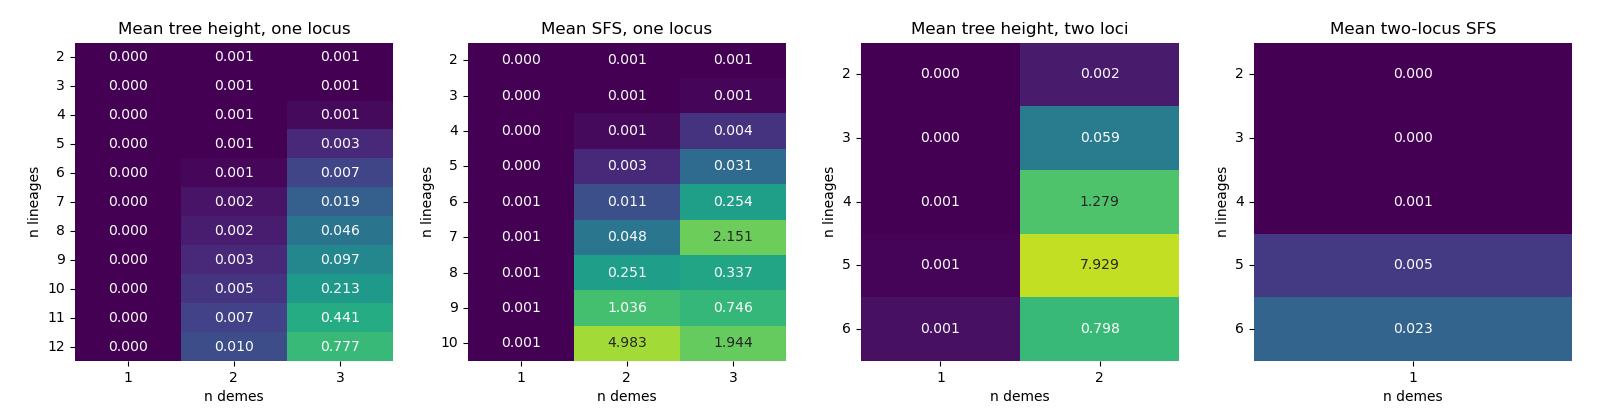
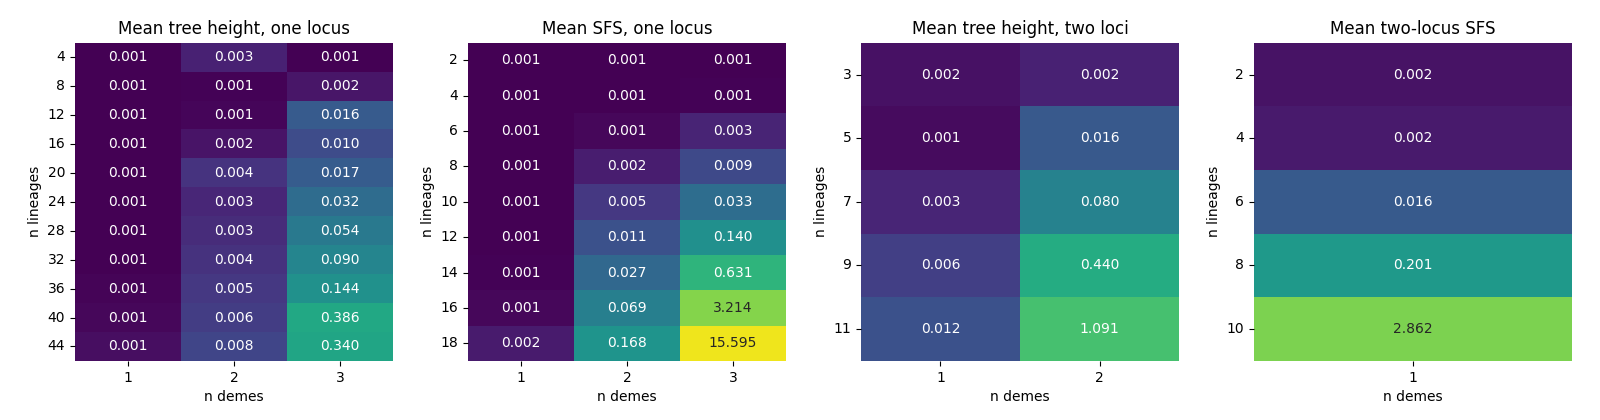
Rerun the runtime benchmarks with migration and more lineages

diff --git a/scripts/plot_heatmap_sampling_times.py b/scripts/plot_heatmap_sampling_times.py
@@ -64,8 +64,15 @@ def plot_heatmap(
     for (n, d) in itertools.product(N, D):
         pbar.set_description(f"n={n}, d={d}")
 
+        pops = {'pop_0': n} | {f'pop_{i}': 0 for i in range(1, d)}
+
+        # unit migration between all demes, so that every state of the state space is reachable
         coal = pg.Coalescent(
-            n=pg.LineageConfig({'pop_0': n} | {f'pop_{i}': 0 for i in range(1, d)}),
+            n=pg.LineageConfig(pops),
+            demography=pg.Demography(
+                pop_sizes={p: 1 for p in pops},
+                migration_rates={(a, b): 1.0 for a in pops for b in pops if a != b}
+            ),
             loci=locus_config
         )
 
@@ -102,7 +109,7 @@ _ = pg.Coalescent(n={'pop_0': 3, 'pop_1': 0, 'pop_2': 0}).tree_height.to_empiric
 
 plot_heatmap(
     ax=ax[0],
-    N=np.arange(2, 13, 1),
+    N=np.arange(4, 48, 4),
     D=np.arange(1, 4),
     callback=lambda coal: coal.tree_height.to_empirical(N_SAMPLES).mean,
     title="Mean tree height, one locus"
@@ -110,7 +117,7 @@ plot_heatmap(
 
 plot_heatmap(
     ax=ax[1],
-    N=np.arange(2, 11, 1),
+    N=np.arange(2, 20, 2),
     D=np.arange(1, 4),
     callback=lambda coal: coal.sfs.to_empirical(N_SAMPLES).mean,
     title="Mean SFS, one locus"
@@ -118,7 +125,7 @@ plot_heatmap(
 
 plot_heatmap(
     ax=ax[2],
-    N=np.arange(2, 7, 1),
+    N=np.arange(3, 13, 2),
     D=np.arange(1, 3),
     callback=lambda coal: coal.tree_height.to_empirical(N_SAMPLES).mean,
     title="Mean tree height, two loci",
@@ -128,7 +135,7 @@ plot_heatmap(
 # mean two-locus SFS (the recombination-aware 2-SFS); single population
 plot_heatmap(
     ax=ax[3],
-    N=np.arange(2, 7, 1),
+    N=np.arange(2, 12, 2),
     D=np.arange(1, 2),
     callback=lambda coal: coal.sfs2.to_empirical(N_SAMPLES).mean,
     title="Mean two-locus SFS",

diff --git a/scripts/plot_heatmap_execution_times.py b/scripts/plot_heatmap_execution_times.py
@@ -71,8 +71,15 @@ def plot_heatmap(
     for (n, d) in itertools.product(N, D):
         pbar.set_description(f"n={n}, d={d}")
 
+        pops = {'pop_0': n} | {f'pop_{i}': 0 for i in range(1, d)}
+
+        # unit migration between all demes, so that every state of the state space is reachable
         coal = pg.Coalescent(
-            n=pg.LineageConfig({'pop_0': n} | {f'pop_{i}': 0 for i in range(1, d)}),
+            n=pg.LineageConfig(pops),
+            demography=pg.Demography(
+                pop_sizes={p: 1 for p in pops},
+                migration_rates={(a, b): 1.0 for a in pops for b in pops if a != b}
+            ),
             loci=locus_config
         )
 
@@ -113,7 +120,7 @@ _ = pg.Coalescent(
 
 plot_heatmap(
     ax=ax[0],
-    N=np.arange(2, 13, 1),
+    N=np.arange(4, 48, 4),
     D=np.arange(1, 4),
     callback=lambda coal: coal.tree_height.mean,
     title="Mean tree height, one locus"
@@ -121,7 +128,7 @@ plot_heatmap(
 
 plot_heatmap(
     ax=ax[1],
-    N=np.arange(2, 11, 1),
+    N=np.arange(2, 20, 2),
     D=np.arange(1, 4),
     callback=lambda coal: coal.sfs.mean,
     title="Mean SFS, one locus"
@@ -129,7 +136,7 @@ plot_heatmap(
 
 plot_heatmap(
     ax=ax[2],
-    N=np.arange(2, 7, 1),
+    N=np.arange(3, 13, 2),
     D=np.arange(1, 3),
     callback=lambda coal: coal.tree_height.mean,
     title="Mean tree height, two loci",
@@ -139,7 +146,7 @@ plot_heatmap(
 # mean two-locus SFS (the recombination-aware 2-SFS); single population
 plot_heatmap(
     ax=ax[3],
-    N=np.arange(2, 7, 1),
+    N=np.arange(2, 12, 2),
     D=np.arange(1, 2),
     callback=lambda coal: coal.sfs2.mean,
     title="Mean two-locus SFS",

diff --git a/docs/reference/performance.rst b/docs/reference/performance.rst
@@ -16,7 +16,7 @@ Constructing it (enumerating the states and assembling the rate matrix) is accel
 
 Exact computation
 -----------------
-The runtime of exact moments is governed by the size of the state space, which enters through linear solves with the transient block of the last epoch, matrix exponentials over finite epochs, and the order of the moment. The evaluation strategies and the settings that select them are described in :meth:`PhaseTypeDistribution.moment() <phasegen.distributions.PhaseTypeDistribution.moment>`. Below we can see the total runtime in seconds for computing the mean tree height, the mean SFS, and the mean two-locus SFS under a 1-epoch standard coalescent over a range of different numbers of lineages and loci.
+The runtime of exact moments is governed by the size of the state space, which enters through linear solves with the transient block of the last epoch, matrix exponentials over finite epochs, and the order of the moment. The evaluation strategies and the settings that select them are described in :meth:`PhaseTypeDistribution.moment() <phasegen.distributions.PhaseTypeDistribution.moment>`. Below we can see the total runtime in seconds for computing the mean tree height, the mean SFS, and the mean two-locus SFS under a 1-epoch standard coalescent with migration over a range of numbers of lineages, demes and loci.
 
 .. image:: ../images/execution_times.png
    :alt: Execution times
@@ -25,7 +25,7 @@ The runtime of exact moments is governed by the size of the state space, which e
 
 Empirical estimation
 --------------------
-Where the exact computation becomes too costly, the statistics can instead be estimated from ``phasegen``'s own vectorised sampler (:meth:`Coalescent.to_empirical() <phasegen.distributions.Coalescent.to_empirical>`). Its cost grows with the number of samples and the number of jumps per trajectory, while the state space is still constructed as for the exact computation (see :meth:`PhaseTypeDistribution.sample() <phasegen.distributions.PhaseTypeDistribution.sample>`). The figure below shows the runtime for drawing 100,000 samples, on the same colour scale as above. Sampling is considerably faster even for the largest case, which is the slowest to compute exactly in the figure above.
+Where the exact computation becomes too costly, the statistics can instead be estimated from ``phasegen``'s own vectorised sampler (:meth:`Coalescent.to_empirical() <phasegen.distributions.Coalescent.to_empirical>`). Its cost grows with the number of samples and the number of jumps per trajectory, while the state space is still constructed as for the exact computation (see :meth:`PhaseTypeDistribution.sample() <phasegen.distributions.PhaseTypeDistribution.sample>`). The figure below shows the runtime for drawing 100,000 samples, on the same colour scale as above. Its runtime grows more slowly than that of the exact computation as the scenarios become more complex.
 
 .. image:: ../images/sampling_times.png
    :alt: Sampling times
